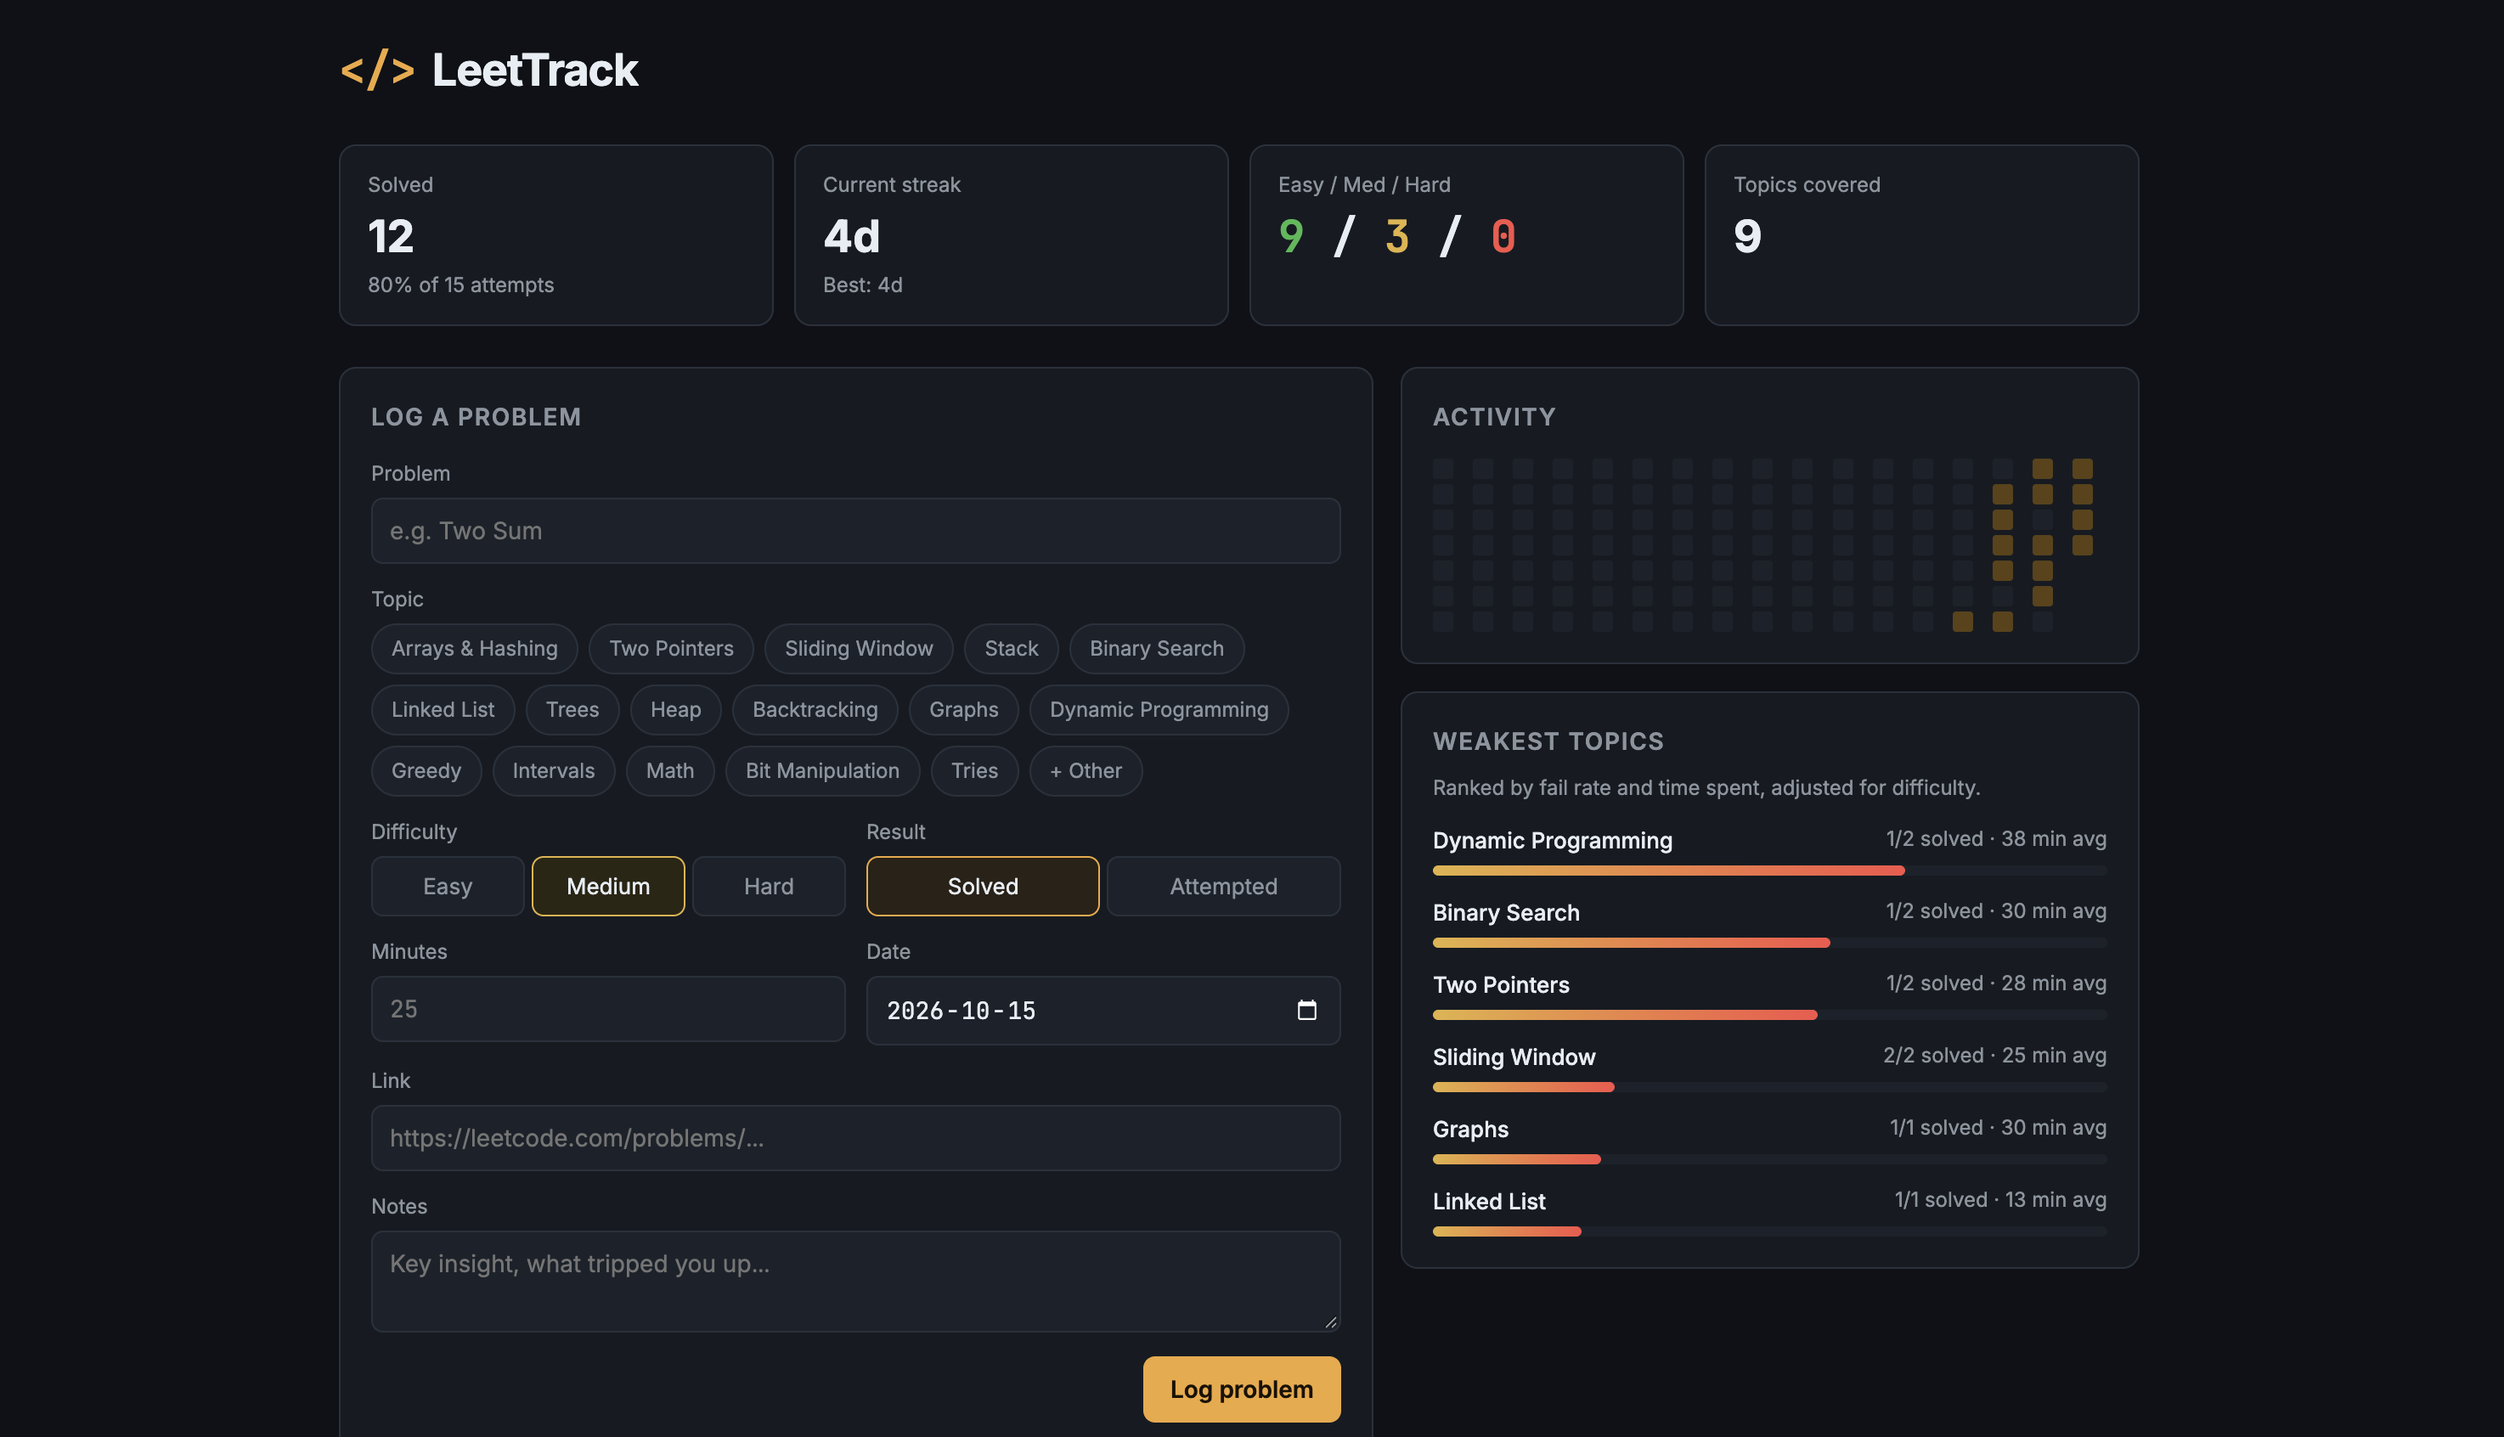
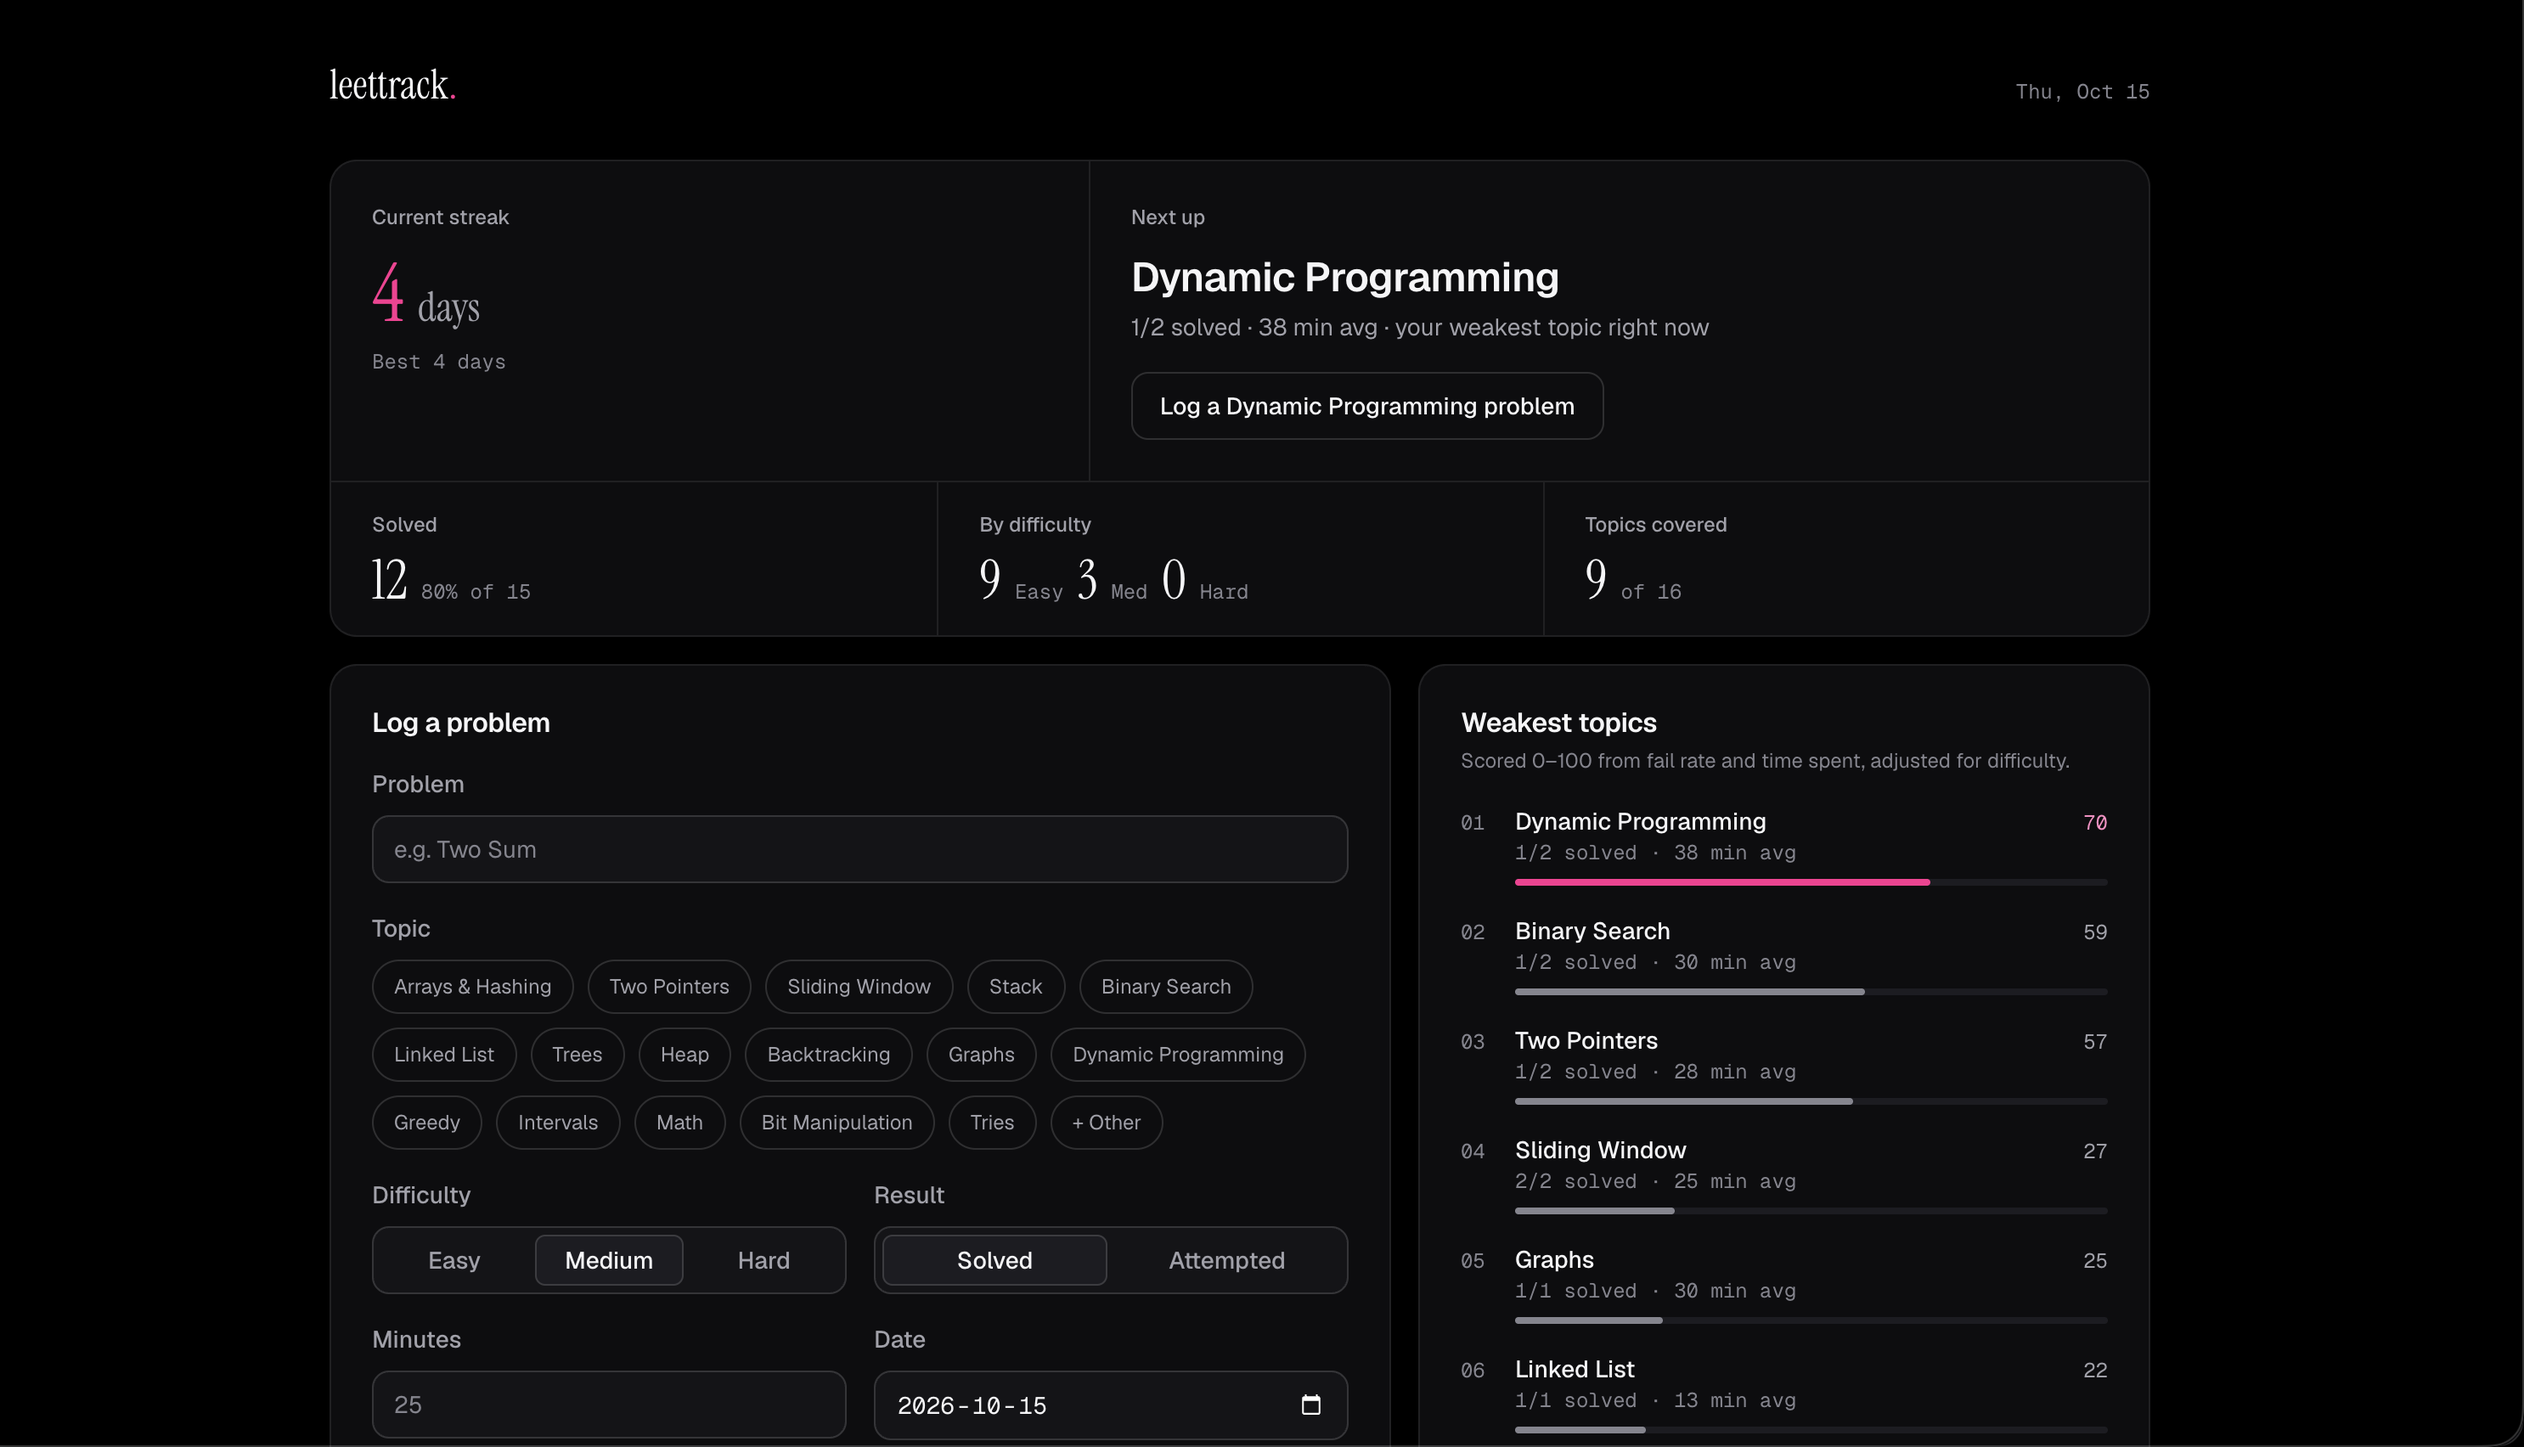
Refresh README with new screenshots

Changed region(s): [[0.1248, 0.0922, 0.8738, 1.0], [0.9986, 0.0, 1.0, 0.9835], [0.1248, 0.0307, 0.2497, 0.0615]]

diff --git a/README.md b/README.md
@@ -1,16 +1,34 @@
-# LeetTrack
+<div align="center">
 
-I built this to track my LeetCode / OA practice. I log every problem I do (topic, difficulty, time, and whether I actually solved it), and it shows me which topics I'm weakest at so I know what to work on next. It also tracks my streak.
+# ⋆˚✿˖° leettrack. °˖✿˚⋆
+
+*my little LeetCode / OA practice tracker* ♡
+
+[**✧ live demo ✧**](https://leettrack-k8v3.onrender.com/)
+
+</div>
+
+<br>
+
+I built this to track my LeetCode and OA practice ₊˚⊹ I log every problem I do (topic, difficulty, time, and whether I actually solved it), and it tells me which topics I'm weakest at so I know what to work on next. It also tracks my streak, because keeping it alive is half the motivation ᯓ★
 
 ![LeetTrack dashboard](docs/dashboard.png)
 
 ![LeetTrack history](docs/history.png)
 
-**Live demo:** https://leettrack-k8v3.onrender.com/
+## ୨୧ what it does
 
-**Stack:** React + Vite, Node/Express, SQLite (`node:sqlite`), tested with `node:test`
+- **⋆ streak:** consecutive days with at least one problem logged (it doesn't reset at midnight before I've practiced)
+- **⋆ next up:** my weakest topic right now, with a button to log a problem in it
+- **⋆ weakest topics:** every topic scored 0–100, so I know where to focus
+- **⋆ activity heatmap:** the last 16 weeks, in five shades of pink
+- **⋆ history:** every problem I've logged, searchable and filterable by topic, difficulty and result
 
-## Running it
+## ⊹ stack
+
+React + Vite · Node/Express · SQLite (`node:sqlite`) · tested with `node:test`
+
+## ₊˚ running it
 
 Needs Node 22.5+.
 
@@ -20,9 +38,9 @@ npm run seed   # optional sample data
 npm run dev
 ```
 
-Then open http://localhost:5173. Run `npm test` for the tests.
+Then open http://localhost:5173 ♡ Run `npm test` for the tests.
 
-## How the weakness score works
+## ✿ how the weakness score works
 
 For each topic, I combine how often I fail it with how long it takes me, adjusted for difficulty (a slow Hard shouldn't count the same as a slow Easy):
 
@@ -32,7 +50,7 @@ weakness = 0.6 × fail rate + 0.4 × (avg minutes / difficulty weight, scaled to
 
 Difficulty weights are Easy 1, Medium 2, Hard 3. The logic is in [`server/stats.js`](server/stats.js).
 
-## API
+## ⋆ api
 
 | Method | Endpoint            | Description                                  |
 | ------ | ------------------- | -------------------------------------------- |
@@ -41,7 +59,12 @@ Difficulty weights are Easy 1, Medium 2, Hard 3. The logic is in [`server/stats.
 | PUT    | `/api/problems/:id` | Update a problem                             |
 | DELETE | `/api/problems/:id` | Delete a problem                             |
 | GET    | `/api/stats`        | Totals, streaks, per-topic breakdown         |
+| GET    | `/api/topics`       | Every topic I've logged                      |
 
-## Next
+<br>
 
-Resurfacing problems I attempted but didn't solve, spaced-repetition style.
+<div align="center">
+
+*made with ♡ and way too many sliding window problems* ⋆˚࿔
+
+</div>
